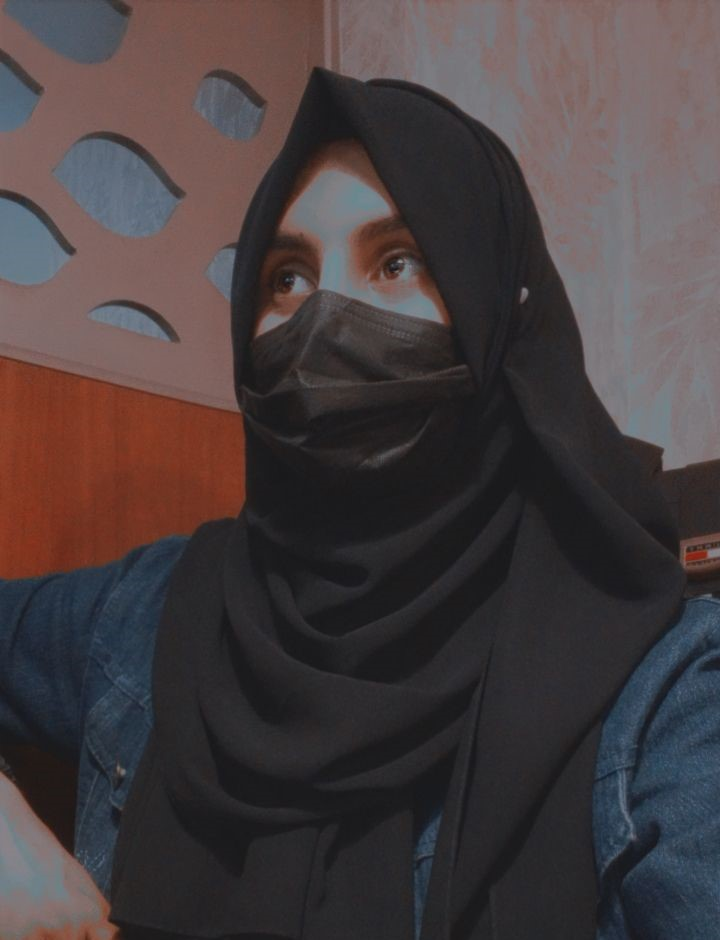
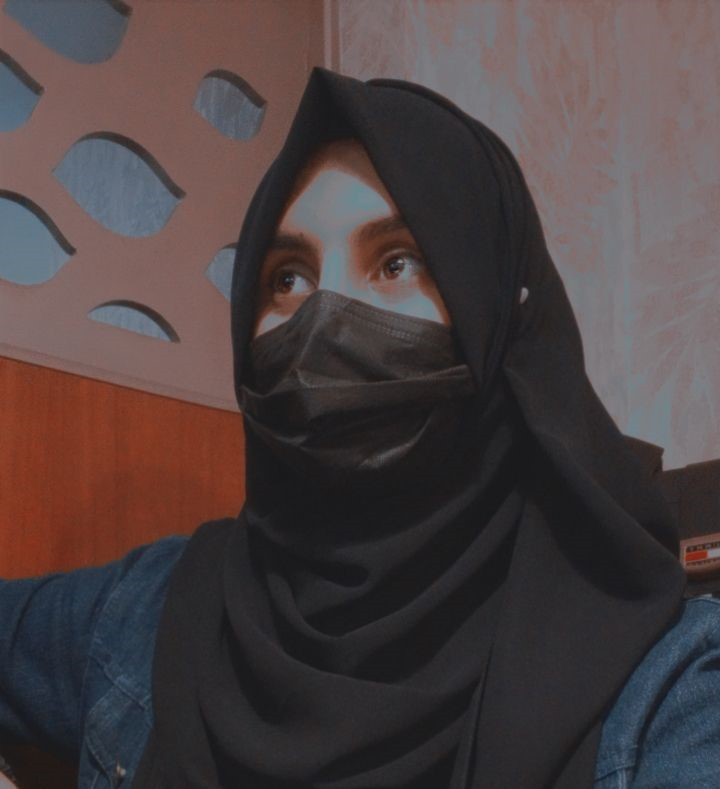
feat(ui): CEO card - re-upload ceo.jpg, full-card colorful background (gradient + aurora + slow conic wash + dotted sheen)

diff --git a/components/about/About.tsx b/components/about/About.tsx
@@ -161,34 +161,46 @@ export function About() {
             transition={{ duration: 10, repeat: Infinity, ease: "linear" }}
             className="absolute -inset-[150%] bg-[conic-gradient(from_0deg,#6366F1,#0EA5E9,#F0C36D,#EC4899,#D946EF,#6366F1)]"
           />
-          <div className="relative overflow-hidden rounded-[calc(2.5rem-2px)] bg-[linear-gradient(135deg,#EDF3FF_0%,#DFEAFF_45%,#F1E8FF_100%)] p-7 sm:p-10">
-            {/* living aurora background */}
+          <div className="relative overflow-hidden rounded-[calc(2.5rem-2px)] bg-[linear-gradient(135deg,#E2EBFF_0%,#C7D9FF_28%,#E2D6FF_52%,#FFDFEE_78%,#FFF3DC_100%)] p-7 sm:p-10">
+            {/* full-card aurora background */}
             <div aria-hidden className="pointer-events-none absolute inset-0">
+              {/* slow rotating color wash across the whole card */}
               <motion.div
-                animate={{ x: [0, 30, 0], y: [0, -22, 0], scale: [1, 1.12, 1] }}
+                animate={{ rotate: 360 }}
+                transition={{ duration: 60, repeat: Infinity, ease: "linear" }}
+                className="absolute -inset-[100%] opacity-[0.07]"
+                style={{ background: "conic-gradient(from 0deg, #6366F1, #0EA5E9, #EC4899, #F0C36D, #6366F1)" }}
+              />
+              <motion.div
+                animate={{ x: [0, 34, 0], y: [0, -24, 0], scale: [1, 1.15, 1] }}
                 transition={{ duration: 12, repeat: Infinity, ease: "easeInOut" }}
-                className="absolute -right-24 -top-24 h-80 w-80 rounded-[50%]"
-                style={{ background: "radial-gradient(50% 50% at 50% 50%, rgb(99 102 241 / 0.30), transparent 70%)" }}
+                className="absolute -left-24 -top-28 h-96 w-96 rounded-[50%]"
+                style={{ background: "radial-gradient(50% 50% at 50% 50%, rgb(99 102 241 / 0.34), transparent 70%)" }}
               />
               <motion.div
-                animate={{ x: [0, -26, 0], y: [0, 18, 0], scale: [1, 1.1, 1] }}
+                animate={{ x: [0, -30, 0], y: [0, 20, 0], scale: [1, 1.12, 1] }}
                 transition={{ duration: 14, repeat: Infinity, ease: "easeInOut", delay: 1 }}
-                className="absolute -bottom-24 -left-20 h-80 w-80 rounded-[50%]"
-                style={{ background: "radial-gradient(50% 50% at 50% 50%, rgb(168 85 247 / 0.26), transparent 70%)" }}
+                className="absolute -right-24 top-1/4 h-96 w-96 rounded-[50%]"
+                style={{ background: "radial-gradient(50% 50% at 50% 50%, rgb(236 72 153 / 0.30), transparent 70%)" }}
               />
               <motion.div
-                animate={{ x: [0, 16, 0], y: [0, -12, 0] }}
-                transition={{ duration: 11, repeat: Infinity, ease: "easeInOut", delay: 2 }}
-                className="absolute right-8 top-1/3 h-44 w-44 rounded-[50%]"
-                style={{ background: "radial-gradient(50% 50% at 50% 50%, rgb(245 158 11 / 0.22), transparent 70%)" }}
+                animate={{ x: [0, 20, 0], y: [0, -18, 0], scale: [1, 1.1, 1] }}
+                transition={{ duration: 15, repeat: Infinity, ease: "easeInOut", delay: 2 }}
+                className="absolute -bottom-32 left-1/3 h-96 w-96 rounded-[50%]"
+                style={{ background: "radial-gradient(50% 50% at 50% 50%, rgb(168 85 247 / 0.30), transparent 70%)" }}
               />
+              <motion.div
+                animate={{ x: [0, 18, 0], y: [0, -12, 0] }}
+                transition={{ duration: 11, repeat: Infinity, ease: "easeInOut", delay: 3 }}
+                className="absolute right-1/4 top-1/2 h-40 w-40 rounded-[50%]"
+                style={{ background: "radial-gradient(50% 50% at 50% 50%, rgb(56 189 248 / 0.30), transparent 70%)" }}
+              />
+              {/* dotted sheen across whole surface */}
               <div
-                className="absolute inset-0 opacity-[0.30]"
+                className="absolute inset-0 opacity-[0.16]"
                 style={{
-                  backgroundImage: "radial-gradient(rgb(99 102 241 / 0.24) 1px, transparent 1px)",
-                  backgroundSize: "30px 30px",
-                  maskImage: "radial-gradient(ellipse at 60% 30%, black 0%, transparent 65%)",
-                  WebkitMaskImage: "radial-gradient(ellipse at 60% 30%, black 0%, transparent 65%)",
+                  backgroundImage: "radial-gradient(rgb(79 70 229 / 0.35) 1px, transparent 1px)",
+                  backgroundSize: "28px 28px",
                 }}
               />
             </div>
